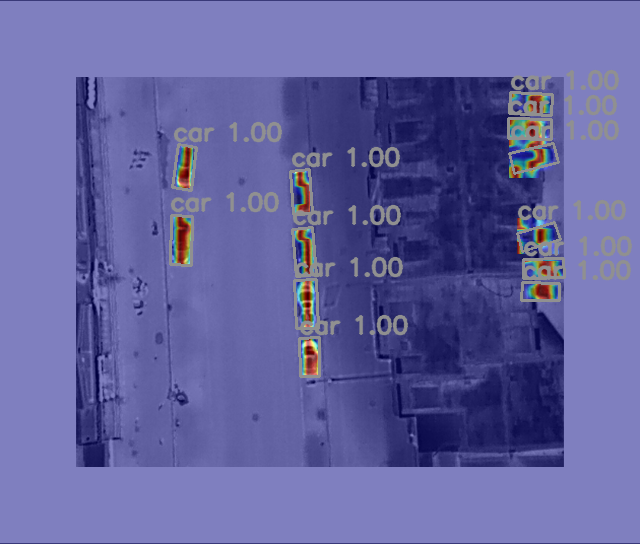
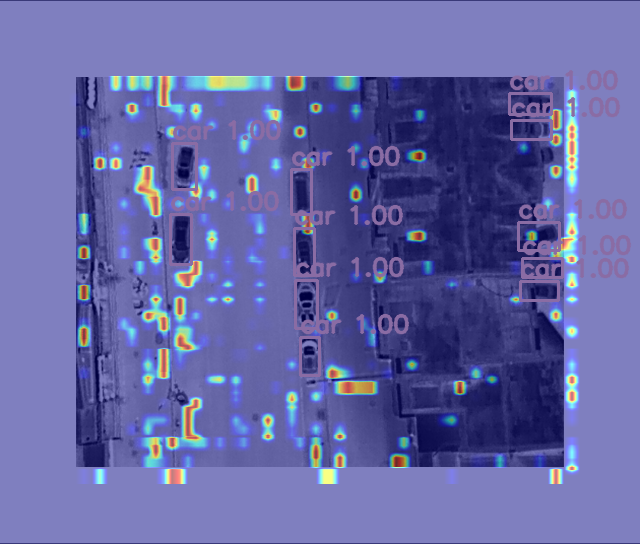
更新

diff --git a/ultralytics/nn/modules/block.py b/ultralytics/nn/modules/block.py
@@ -51,7 +51,8 @@ __all__ = (
     "SKAttention",
     "GLF",
     "NAM",
-    "GCBAM"
+    "GCBAM",
+    "SACBAM"
 )
 import numpy as np
 import torch
@@ -318,6 +319,54 @@ class CBAM2(nn.Module):
     
 
 
+class SACBAM(nn.Module):
+
+    def __init__(self,c1,c2, channel=512, reduction=16):
+        super().__init__()
+        self.conv=Conv(c1,c2,1,1)
+        channel=c1
+        
+        self.channel_attention = ChannelAttentionModule(c1)
+        self.spatial_attention = SpatialAttentionModule()
+
+
+    def init_weights(self):
+        for m in self.modules():
+            if isinstance(m, nn.Conv2d):
+                init.kaiming_normal_(m.weight, mode='fan_out')
+                if m.bias is not None:
+                    init.constant_(m.bias, 0)
+            elif isinstance(m, nn.BatchNorm2d):
+                init.constant_(m.weight, 1)
+                init.constant_(m.bias, 0)
+            elif isinstance(m, nn.Linear):
+                init.normal_(m.weight, std=0.001)
+                if m.bias is not None:
+                    init.constant_(m.bias, 0)
+
+    @staticmethod
+    def channel_shuffle(x, groups):
+        b, c, h, w = x.shape
+
+        x = x.reshape(b, groups, -1, h, w)
+        x = x.permute(0, 2, 1, 3, 4)
+        
+
+
+        # flatten
+        x = x.reshape(b, -1, h, w)
+
+        return x
+
+    def forward(self, x):
+        x=torch.cat(x,dim=1)
+
+        x = self.channel_shuffle(x, 2)
+        x_channel=self.channel_attention(x) * x
+        out=self.spatial_attention(x_channel) * x_channel
+        out=self.conv(out)
+        return out
+    
 
 
     
@@ -352,6 +401,9 @@ class GCBAM(nn.Module):
 
         x = x.reshape(b, groups, -1, h, w)
         x = x.permute(0, 2, 1, 3, 4)
+        
+
+
         # flatten
         x = x.reshape(b, -1, h, w)
 
@@ -385,7 +437,6 @@ class GCBAM(nn.Module):
         # out = out.contiguous().view(b, -1, h, w)
         # channel shuffle
         out = self.channel_shuffle(out, 2)
-        
         out=self.conv(out)
         return out
     

diff --git a/hbbv8-heapmap.py b/hbbv8-heapmap.py
@@ -162,7 +162,7 @@ class yolov8_heatmap:
             x1, y1 = max(x1, 0), max(y1, 0)
             x2, y2 = min(grayscale_cam.shape[1] - 1, x2), min(grayscale_cam.shape[0] - 1, y2)
             renormalized_cam[y1:y2, x1:x2] = scale_cam_image(grayscale_cam[y1:y2, x1:x2].copy())    
-        #renormalized_cam = scale_cam_image(grayscale_cam.copy())    
+        renormalized_cam = scale_cam_image(grayscale_cam.copy())    
         renormalized_cam = scale_cam_image(renormalized_cam)
         eigencam_image_renormalized = show_cam_on_image(image_float_np, renormalized_cam, use_rgb=True)
         return eigencam_image_renormalized
@@ -233,7 +233,7 @@ def get_params():
         'weight': '/home/mjy/ultralytics/runs/detect/CBAM/weights/best.pt', # 现在只需要指定权重即可,不需要指定cfg
         'device': 'cuda:0',
         'method': 'GradCAM', # GradCAMPlusPlus, GradCAM, XGradCAM, EigenCAM, HiResCAM, LayerCAM, RandomCAM, EigenGradCAM
-        'layer': [20],
+        'layer': [14],
         'backward_type': 'all', # class, box, all
         'conf_threshold': 0.2, # 0.2
         'ratio': 0.02, # 0.02-0.1

diff --git a/ultralytics/nn/tasks.py b/ultralytics/nn/tasks.py
@@ -63,7 +63,8 @@ from ultralytics.nn.modules import (
     SKAttention,
     GLF,
     NAM,
-    GCBAM
+    GCBAM,
+    SACBAM
 )
 from ultralytics.utils import DEFAULT_CFG_DICT, DEFAULT_CFG_KEYS, LOGGER, colorstr, emojis, yaml_load
 from ultralytics.utils.checks import check_requirements, check_suffix, check_yaml
@@ -972,7 +973,7 @@ def parse_model(d, ch, verbose=True):  # model_dict, input_channels(3)
             c1 = ch[f[0]]+ch[f[1]]
             c2 = ch[f[0]]
             args = [c1,c2] 
-        elif m in {SKAttention,GLF,NAM,GLCBAM,GCBAM}:
+        elif m in {SKAttention,GLF,NAM,GLCBAM,GCBAM,SACBAM}:
             c1 = ch[f[0]]+ch[f[1]]
             c2 = ch[f[0]]
             args = [c1,c2] 

diff --git a/OBBtest.py b/OBBtest.py
@@ -1,7 +1,7 @@
 from ultralytics import YOLO
  
  
-model = YOLO('/home/mjy/ultralytics/yaml/GCBAMyolov8n-obb.yaml').load('/home/mjy/ultralytics/runs/obb/CBAMSA/weights/best.pt')  # build from YAML and transfer weights
+model = YOLO('/home/mjy/ultralytics/yaml/SACBAMyolov8n-obb.yaml').load('/home/mjy/ultralytics/runs/obb/train/weights/best.pt')  # build from YAML and transfer weights
 
 
-metrics = model.val(data='/home/mjy/ultralytics/coco8.yaml',imgsz=640)
+metrics = model.val(data='/home/mjy/ultralytics/coco81.yaml',imgsz=640)

diff --git a/obbv8-heapmap.py b/obbv8-heapmap.py
@@ -315,7 +315,7 @@ class yolov8_heatmap:
         
 def get_params():
     params = {
-        'weight': '/home/mjy/ultralytics/runs/obb/3IR/weights/best.pt', # 现在只需要指定权重即可,不需要指定cfg
+        'weight': '/home/mjy/ultralytics/runs/obb/CBAM/weights/best.pt', # 现在只需要指定权重即可,不需要指定cfg
         'device': 'cuda:0',
         'method': 'GradCAM', # GradCAMPlusPlus, GradCAM, XGradCAM, EigenCAM, HiResCAM, LayerCAM, RandomCAM, EigenGradCAM
         'layer': [20],

diff --git a/OBBtrain.py b/OBBtrain.py
@@ -1,7 +1,7 @@
 from ultralytics import YOLO
  
  
-model = YOLO('/home/mjy/ultralytics/yaml/GCBAMyolov8n-obb.yaml').load('/home/mjy/ultralytics/yolov8n-obb.pt')  # build from YAML and transfer weights
+model = YOLO('/home/mjy/ultralytics/yaml/SACBAMyolov8n-obb.yaml').load('/home/mjy/ultralytics/yolov8n-obb.pt')  # build from YAML and transfer weights
 
 # Train the model
 results = model.train(data='/home/mjy/ultralytics/coco8.yaml', epochs=100, imgsz=640,resume=False)

diff --git a/ultralytics/nn/modules/__init__.py b/ultralytics/nn/modules/__init__.py
@@ -61,6 +61,7 @@ from .block import (
     GLF,
     GLCBAM,
     GCBAM,
+    SACBAM,
 )
 from .conv import (
     CBAM,
